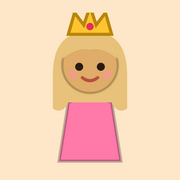
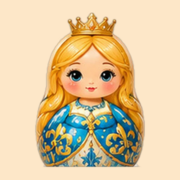
Sociales: 36 muñecas matrioska como premios
Claude-Session: https://claude.ai/code/session_01EqsbdsqJTjS8w8DKeiwk2A

diff --git a/sociales/index.html b/sociales/index.html
@@ -504,7 +504,7 @@ function speak(parts, rate) {
   try { speechSynthesis.cancel(); [].concat(parts).forEach(t => { const u = new SpeechSynthesisUtterance(t); u.lang = VOICE ? VOICE.lang : 'es-MX'; if (VOICE) u.voice = VOICE; u.rate = rate || 0.85; speechSynthesis.speak(u); }); return true; } catch (e) { return false; }
 }
 
-const THEME = { kind:'doll', cats:['Muñecas de trapo','Muñecas de fiesta','Muñecas exploradoras'], name:(c, n) => ['Muñeca ', 'Muñeca ', 'Exploradora '][c] + n + ['', ' de Fiesta', ''][c], royals:['Princesa Fresa','Princesa Menta','Princesa Uva','Princesa Cielo','Princesa Mango','Princesa Coral','Princesa Lavanda','Princesa Turquesa','Princesa Galaxia'], specials:['Muñeca Mexica','Muñeca Maya','Muñeca Olmeca'], finals:['Muñeca Gigante Castaña','Muñeca Gigante Rubia'], word:{ realCap:'Muñeca real', retoCap:'Muñeca de reto', finalCap:'Muñeca gigante' } };
+const THEME = { kind:'doll', photos:{ names:['Reina Azul', 'Reina Rosa Roja', 'Reina Violeta', 'Muñeca Arcoíris', 'Princesa de Nieve Rubia', 'Princesa de Perlas Castaña', 'Hada del Bosque', 'Trenza de Nieve', 'Rosa Silvestre', 'Mariposa Monarca', 'Pavo Real', 'Girasol', 'Otoño Dorado', 'Cupcake', 'Lavanda', 'Jardín de Rosas', 'Cereza Roja', 'Sirenita del Mar', 'Noche Estrellada', 'Arcoíris Feliz', 'Bordado de Fiesta', 'Pradera del Conejo', 'Turquesa', 'Campo de Lavanda', 'Flor de Cerezo', 'Talavera', 'Caperucita del Bosque', 'Tulipanes', 'Jardín Tropical', 'Reina del Invierno', 'Flor de Loto', 'Picnic de Cerezas', 'Galaxia', 'Faro del Mar', 'Calabaza de Otoño', 'Luna y Estrellas'], royals:[0,1,2], reto:3, finals:[5,4] }, cats:['Muñecas de trapo','Muñecas de fiesta','Muñecas exploradoras'], name:(c, n) => ['Muñeca ', 'Muñeca ', 'Exploradora '][c] + n + ['', ' de Fiesta', ''][c], royals:['Princesa Fresa','Princesa Menta','Princesa Uva','Princesa Cielo','Princesa Mango','Princesa Coral','Princesa Lavanda','Princesa Turquesa','Princesa Galaxia'], specials:['Muñeca Mexica','Muñeca Maya','Muñeca Olmeca'], finals:['Princesa de Perlas Castaña','Princesa de Nieve Rubia'], word:{ realCap:'Muñeca real', retoCap:'Muñeca de reto', finalCap:'Muñeca gigante' } };
 /* ================= PREMIOS (dibujos generados, sin imágenes) ================= */
 const PAL = [['Fresa','#FF7AA8'],['Menta','#6FE0B5'],['Uva','#A983F2'],['Limón','#F5E04A'],['Cielo','#7CC8FF'],['Mango','#FFB347'],['Chicle','#FF9FE0'],['Lima','#9BE15D'],['Coral','#FF7F6E'],['Lavanda','#C3A6FF'],
   ['Turquesa','#3CD3C9'],['Durazno','#FFC3A0'],['Arándano','#5B7CFA'],['Sandía','#FF5E7E'],['Pistache','#B5D99C'],['Caramelo','#E3A35B'],['Algodón','#FFC9EC'],['Océano','#3A9BDC'],['Kiwi','#8CC63F'],['Mora','#8E44AD'],

diff --git a/tools/generador-apps/build.py b/tools/generador-apps/build.py
@@ -61,7 +61,7 @@ CFG = {
    theme=THEME_EN, theme_es="{ kind:'slime', cats:['Slimes de colores','Slimes con brillitos','Slimes esponjosos'], name:(c, n) => ['Slime ', 'Brillito ', 'Esponjoso '][c] + n, royals:['Reina Slime Fresa','Rey Slime Menta','Reina Slime Uva','Rey Slime Océano','Reina Slime Chicle','Rey Slime Kiwi','Reina Slime Lavanda','Rey Slime Mango','Reina Slime Galaxia'], specials:['Slime Estrella Fugaz','Slime Cometa','Slime Arcoíris'], finals:['Slime Gigante Galaxia','Slime Gigante Arcoíris'], word:{ realCap:'Slime real', retoCap:'Slime de reto', finalCap:'Slime gigante' } }",
    w=masc('slime', 'slimes', 'Slime', 'Slimes')),
  'sociales': dict(title='Ciencias Sociales', short='Sociales', kicker='Ciencias Sociales · 3.º de primaria', bg='#FDE7C8', pre='soc', content='sociales.js', emoji='🪆',
-   theme="{ kind:'doll', cats:['Muñecas de trapo','Muñecas de fiesta','Muñecas exploradoras'], name:(c, n) => ['Muñeca ', 'Muñeca ', 'Exploradora '][c] + n + ['', ' de Fiesta', ''][c], royals:['Princesa Fresa','Princesa Menta','Princesa Uva','Princesa Cielo','Princesa Mango','Princesa Coral','Princesa Lavanda','Princesa Turquesa','Princesa Galaxia'], specials:['Muñeca Mexica','Muñeca Maya','Muñeca Olmeca'], finals:['Muñeca Gigante Castaña','Muñeca Gigante Rubia'], word:{ realCap:'Muñeca real', retoCap:'Muñeca de reto', finalCap:'Muñeca gigante' } }",
+   theme="{ kind:'doll', photos:{ names:['Reina Azul', 'Reina Rosa Roja', 'Reina Violeta', 'Muñeca Arcoíris', 'Princesa de Nieve Rubia', 'Princesa de Perlas Castaña', 'Hada del Bosque', 'Trenza de Nieve', 'Rosa Silvestre', 'Mariposa Monarca', 'Pavo Real', 'Girasol', 'Otoño Dorado', 'Cupcake', 'Lavanda', 'Jardín de Rosas', 'Cereza Roja', 'Sirenita del Mar', 'Noche Estrellada', 'Arcoíris Feliz', 'Bordado de Fiesta', 'Pradera del Conejo', 'Turquesa', 'Campo de Lavanda', 'Flor de Cerezo', 'Talavera', 'Caperucita del Bosque', 'Tulipanes', 'Jardín Tropical', 'Reina del Invierno', 'Flor de Loto', 'Picnic de Cerezas', 'Galaxia', 'Faro del Mar', 'Calabaza de Otoño', 'Luna y Estrellas'], royals:[0,1,2], reto:3, finals:[5,4] }, cats:['Muñecas de trapo','Muñecas de fiesta','Muñecas exploradoras'], name:(c, n) => ['Muñeca ', 'Muñeca ', 'Exploradora '][c] + n + ['', ' de Fiesta', ''][c], royals:['Princesa Fresa','Princesa Menta','Princesa Uva','Princesa Cielo','Princesa Mango','Princesa Coral','Princesa Lavanda','Princesa Turquesa','Princesa Galaxia'], specials:['Muñeca Mexica','Muñeca Maya','Muñeca Olmeca'], finals:['Princesa de Perlas Castaña','Princesa de Nieve Rubia'], word:{ realCap:'Muñeca real', retoCap:'Muñeca de reto', finalCap:'Muñeca gigante' } }",
    w=fem),
  'mate': dict(title='Matemáticas', short='Mate', kicker='<a href="../" style="color:inherit">← MultiParque</a> · Matemáticas', bg='#DDE8FB', pre='mat', content='mate.js', emoji='🤖',
    theme="{ kind:'robot', cats:['Robots de juguete','Robots voladores','Robots de cuerda'], name:(c, n) => ['Robot ', 'Volador ', 'Robot de cuerda '][c] + n, royals:['Rey Robot Dorado','Reina Robot Rosa','Rey Robot Turbo','Reina Robot Chispa','Rey Robot Tuerca','Reina Robot Pixel','Rey Robot Cometa','Reina Robot Brillo','Rey Robot Galaxia'], specials:['Robot Calculadora','Robot Ábaco','Robot Regla'], finals:['Megarrobot Plateado','Megarrobot Dorado'], word:{ realCap:'Robot real', retoCap:'Robot de reto', finalCap:'Megarrobot' } }",
